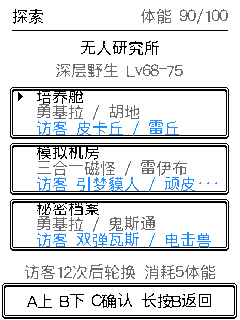
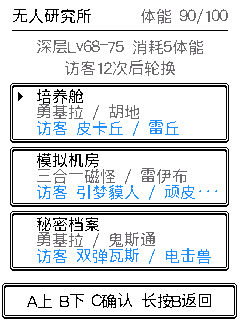
fix: keep visitor labels inside exploration card borders

Changed region(s): [[0.0292, 0.4062, 0.9625, 0.875], [0.0292, 0.125, 0.9625, 0.2812], [0.0583, 0.0312, 0.3792, 0.0938]]

diff --git a/firmware/main/play_exploration.c b/firmware/main/play_exploration.c
@@ -164,7 +164,7 @@ static const char *error_text(exploration_kind_t kind){
 static void draw_all(void){
  char text[96];unsigned route=event.kind==EXPLORE_ENCOUNTER||event.kind==EXPLORE_TARGET?event.route:view.route;const exploration_route_t *r=exploration_route(route);
  for(int band=0;band<SCREEN_H;band+=SCREEN_BAND_H){
-  screen_band_clear(GAME_UI_BG);snprintf(text,sizeof(text),"体能 %u/100",view.stamina);game_ui_title(band,routes?"选择路线":"探索",text);
+  screen_band_clear(GAME_UI_BG);snprintf(text,sizeof(text),"体能 %u/100",view.stamina);game_ui_title(band,routes?"选择路线":paths?r->name:"探索",text);
   if(chain_rules){
    center(band,44,"探索连胜",GAME_UI_INK);game_ui_box(band,8,72,224,178);
    const char *rules[]={"探索胜利提高闪光概率","探索战败或捕获会清零","逃跑仍然保留连胜","换地图与重启也保留","道馆与秘境不影响连胜"};
@@ -172,15 +172,14 @@ static void draw_all(void){
    center(band,258,"只影响新发现的伙伴",GAME_UI_MUTED);game_ui_footer(band,"长按B返回");
   }else if(paths){
    const exploration_region_t *r=exploration_region(view.route);
-   center(band,40,r->route.name,GAME_UI_INK);
-   snprintf(text,sizeof(text),"%s野生 Lv%u-%u",view.deep?"深层":"常规",exploration_region_level_min(r,view.deep),r->max_level);center(band,62,text,GAME_UI_MUTED);
+   snprintf(text,sizeof(text),"%sLv%u-%u 消耗5体能",view.deep?"深层":"常规",exploration_region_level_min(r,view.deep),r->max_level);center(band,40,text,GAME_UI_MUTED);
    for(unsigned i=0;i<3;i++){
-    int y=84+i*56;const exploration_trail_t *trail=exploration_region_trail(view.route,i);
-    game_ui_box(band,8,y,224,56);render_text(36,y+4-band,trail->name,GAME_UI_INK);
-    trail_examples(band,i,y+20);visitor_names(band,i,y+36);if(i==selected)game_ui_cursor(band,18,y+8);
+    int y=80+i*64;const exploration_trail_t *trail=exploration_region_trail(view.route,i);
+    game_ui_box(band,8,y,224,64);render_text(36,y+8-band,trail->name,GAME_UI_INK);
+    trail_examples(band,i,y+24);visitor_names(band,i,y+40);if(i==selected)game_ui_cursor(band,18,y+12);
    }
-   snprintf(text,sizeof(text),"访客%u次后轮换 消耗5体能",(unsigned)(EXPLORATION_ROTATION_STEPS-view.regions.region[view.route-4].steps%EXPLORATION_ROTATION_STEPS));
-   center(band,264,view.clues==3?"本次寻找追踪目标":text,GAME_UI_MUTED);game_ui_footer(band,GAME_UI_NAV_HINT);
+   snprintf(text,sizeof(text),"访客%u次后轮换",(unsigned)(EXPLORATION_ROTATION_STEPS-view.regions.region[view.route-4].steps%EXPLORATION_ROTATION_STEPS));
+   center(band,60,view.clues==3?"本次寻找追踪目标":text,GAME_UI_MUTED);game_ui_footer(band,GAME_UI_NAV_HINT);
   }else if(badge_list){
    center(band,44,"徽章活动",GAME_UI_INK);
    if(!badge_count)center(band,124,"获得徽章后开放新活动",GAME_UI_MUTED);

diff --git a/tools/pipeline/verify_region_trails_preview.py b/tools/pipeline/verify_region_trails_preview.py
@@ -70,7 +70,7 @@ def run():
                     # silently skip drawing, even when band/full pixels agree.
                     for row in range(3):
                         black = sum(frame['pixels'][(y * 240 + x) * 2:(y * 240 + x) * 2 + 2] == b'\0\0'
-                                    for y in range(90 + row * 56, 114 + row * 56)
+                                    for y in range(96 + row * 64, 120 + row * 64)
                                     for x in range(8, 16))
                         assert black > 20, 'Missing trail frame'
                     if direction == 0:
